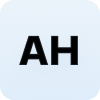
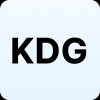
chore: remove README.md and update author information in NavBar, Footer, and Hero sections

diff --git a/src/components/NavBar.jsx b/src/components/NavBar.jsx
@@ -1,4 +1,4 @@
-import { useState, useEffect } from "react";
+import { useEffect, useState } from "react";
 
 import { navLinks } from "../constants";
 
@@ -26,7 +26,7 @@ const NavBar = () => {
     <header className={`navbar ${scrolled ? "scrolled" : "not-scrolled"}`}>
       <div className="inner">
         <a href="#hero" className="logo">
-          Adrian JSM
+          Koen De Groot
         </a>
 
         <nav className="desktop">
@@ -50,6 +50,6 @@ const NavBar = () => {
       </div>
     </header>
   );
-}
+};
 
 export default NavBar;

diff --git a/src/sections/Footer.jsx b/src/sections/Footer.jsx
@@ -16,7 +16,7 @@ const Footer = () => {
         </div>
         <div className="flex flex-col justify-center">
           <p className="text-center md:text-end">
-            © {new Date().getFullYear()} Adrian Hajdin. All rights reserved.
+            © 2025 Koen De Groot. All rights reserved.
           </p>
         </div>
       </div>

diff --git a/src/sections/Hero.jsx b/src/sections/Hero.jsx
@@ -47,7 +47,7 @@ const Hero = () => {
             </div>
 
             <p className="text-white-50 md:text-xl relative z-10 pointer-events-none">
-              Hi, I’m Adrian, a developer based in Croatia with a passion for
+              Hi, I’m Koen, a developer based in Belgium with a passion for
               code.
             </p>
 